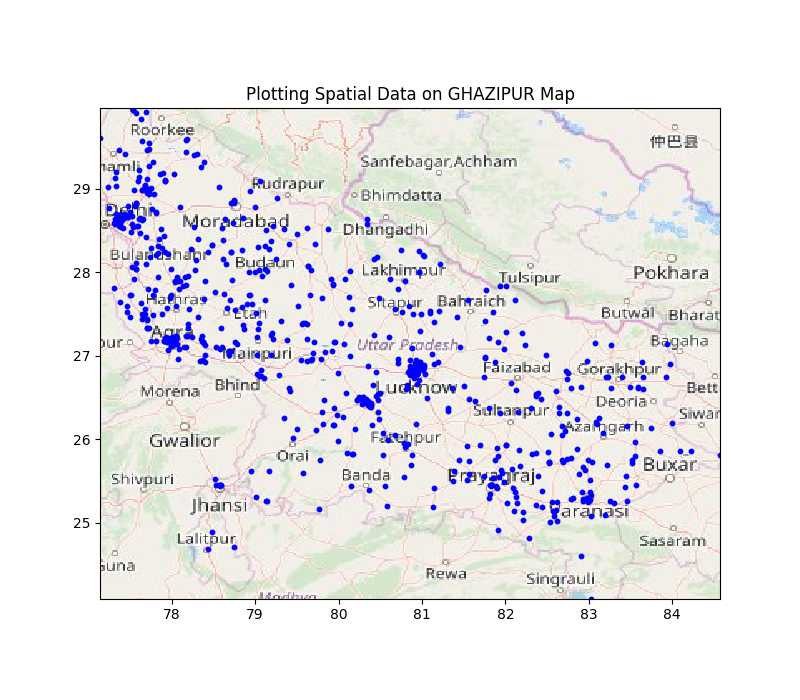
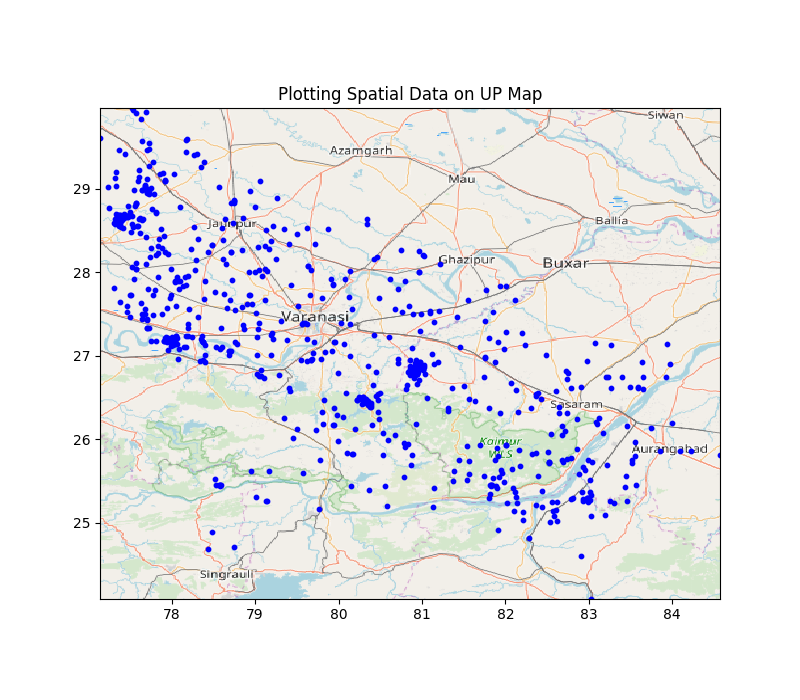
Adding Readme

Changed region(s): [[0.125, 0.12, 0.9062, 0.87]]

diff --git a/README.md b/README.md
@@ -1,0 +1,13 @@
+# UP100
+## Updates regarding project
+
+
+
+### Updates on 24th Feb, 2020:
+  1. Below is the crime plotted in entire UP
+  ![](./Figure/2020-02-24/UP_CRIME.png)
+  2. Crime scene plot for each district can be found in ./Figure/2020-02-24 folder.
+
+
+
+
